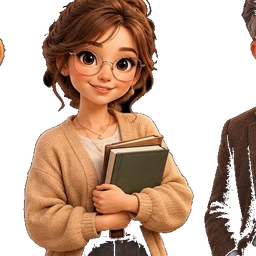
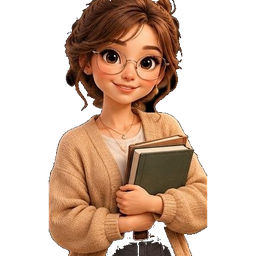
Аватары: точные рамки, девушка и мужчина отдельно

diff --git a/js/account.js b/js/account.js
@@ -232,7 +232,7 @@ const Account = (() => {
           <label class="ac-ava" title="Нажмите, чтобы выбрать фото">${I.avatar ? `<img src="${esc(I.avatar)}" alt="">` : `<span>${esc(initials(I.name) || "👤")}</span>`}<input type="file" id="acPhoto" accept="image/*" hidden><em>${I.avatar ? "сменить" : "фото"}</em></label>
           <div class="ac-ava-set" id="acAvaSet">
             <span class="small">Или выберите готовый:</span>
-            <div class="ac-ava-grid">${[1,2,3,4,5,6,7].map(i=>`<button type="button" class="ac-ava-btn" data-ava="js/avatars/a${i}.png?v=2" title="Без фона"><img src="js/avatars/a${i}.png?v=2" alt=""></button>`).join("")}${[1,2,3,4,5,6,7].map(i=>`<button type="button" class="ac-ava-btn" data-ava="js/avatars/a${i}w.png?v=2" title="На белом"><img src="js/avatars/a${i}w.png?v=2" alt=""></button>`).join("")}</div>
+            <div class="ac-ava-grid">${[1,2,3,4,5,6,7].map(i=>`<button type="button" class="ac-ava-btn" data-ava="js/avatars/a${i}.png?v=3" title="Без фона"><img src="js/avatars/a${i}.png?v=3" alt=""></button>`).join("")}${[1,2,3,4,5,6,7].map(i=>`<button type="button" class="ac-ava-btn" data-ava="js/avatars/a${i}w.png?v=3" title="На белом"><img src="js/avatars/a${i}w.png?v=3" alt=""></button>`).join("")}</div>
           </div>
           <div class="ac-fields">
             <input type="text" id="acName" placeholder="Имя и фамилия" value="${esc(I.name || "")}" autocomplete="name">

diff --git a/sw.js b/sw.js
@@ -5,7 +5,7 @@
    • Библиотеки (Word, PowerPoint, PDF, шрифты): из кэша, если уже были загружены.
    • Ответы Википедии и Викитеки запоминаются: урок по той же теме без сети соберётся с ними.
    • Ключи нейросетей, запросы к нейросетям и к GitHub в кэш не попадают. */
-const VERSION = "uchu-v5.268";
+const VERSION = "uchu-v5.269";
 const SHELL = ["./", "index.html", "css/v5.css", "data/base.js", "data/own.js", "data/extra.js", "data/frp.js", "data/promo.js", "data/legal.js", "manifest.json",
   "vendor/marked.umd.js", "vendor/purify.min.js", "vendor/turndown.js", "vendor/turndown-plugin-gfm.js", "vendor/pptxgen.bundle.js", "vendor/jszip.min.js", "vendor/docx.umd.js",
   ...["log", "cleaner", "learn", "learn2", "variety", "methodbase", "plans-loader", "kits-loader", "imagegen", "frpkit", "subjects", "usage", "heur", "litkit", "notes", "verify", "ocr", "materials", "collect", "devmode", "devcover", "account", "cloudbase", "rules", "schemes", "layout", "lessonnotes", "tutor", "mnemo", "themes", "themes2", "video", "photostk", "access", "rukit", "deck", "slides", "publish", "sync", "worksearch", "ai", "blobs"].map(n => `js/${n}.js`)];
